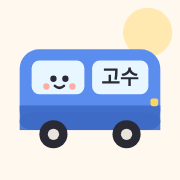
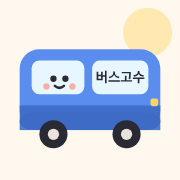
Rename home-screen label
Claude-Session: https://claude.ai/code/session_01VUZsWcb7DTvcSrD5DbwUgA

Changed region(s): [[0.5278, 0.3611, 0.8056, 0.4722]]

diff --git a/index.html b/index.html
@@ -6,7 +6,7 @@
 <link rel="icon" type="image/svg+xml" href="icon.svg">
 <link rel="apple-touch-icon" href="icon-180.png">
 <link rel="manifest" href="manifest.webmanifest">
-<meta name="apple-mobile-web-app-title" content="상황매칭">
+<meta name="apple-mobile-web-app-title" content="버스고수">
 <meta name="apple-mobile-web-app-capable" content="yes">
 <meta name="theme-color" content="#FFF8EE">
 <title>버스 15분 상황매칭론</title>
